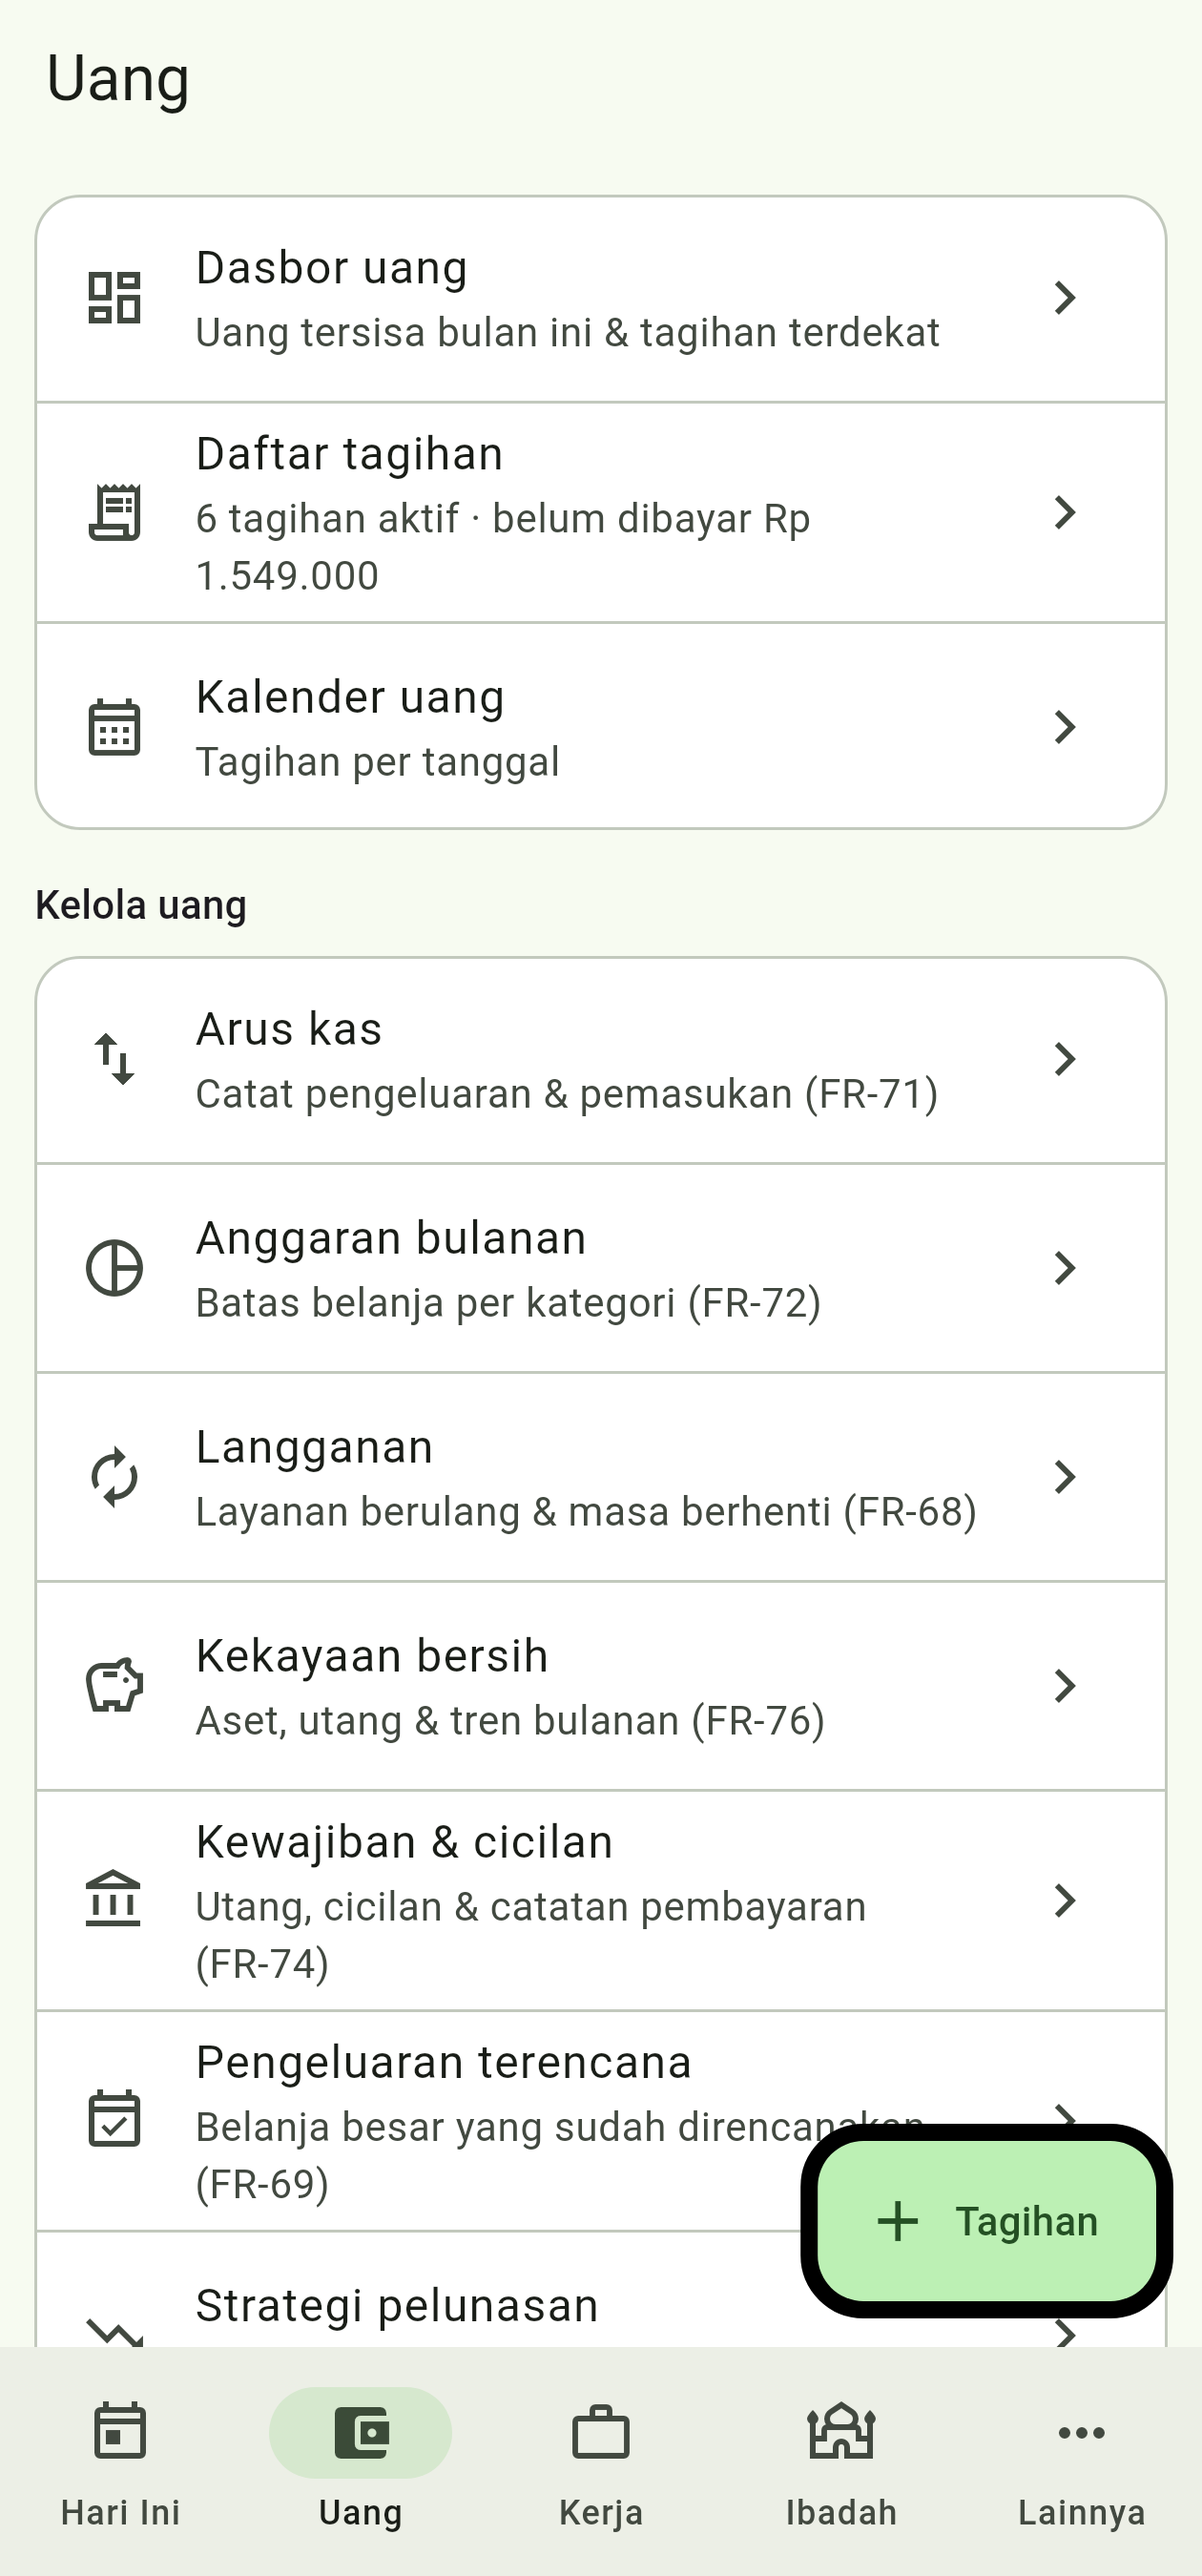
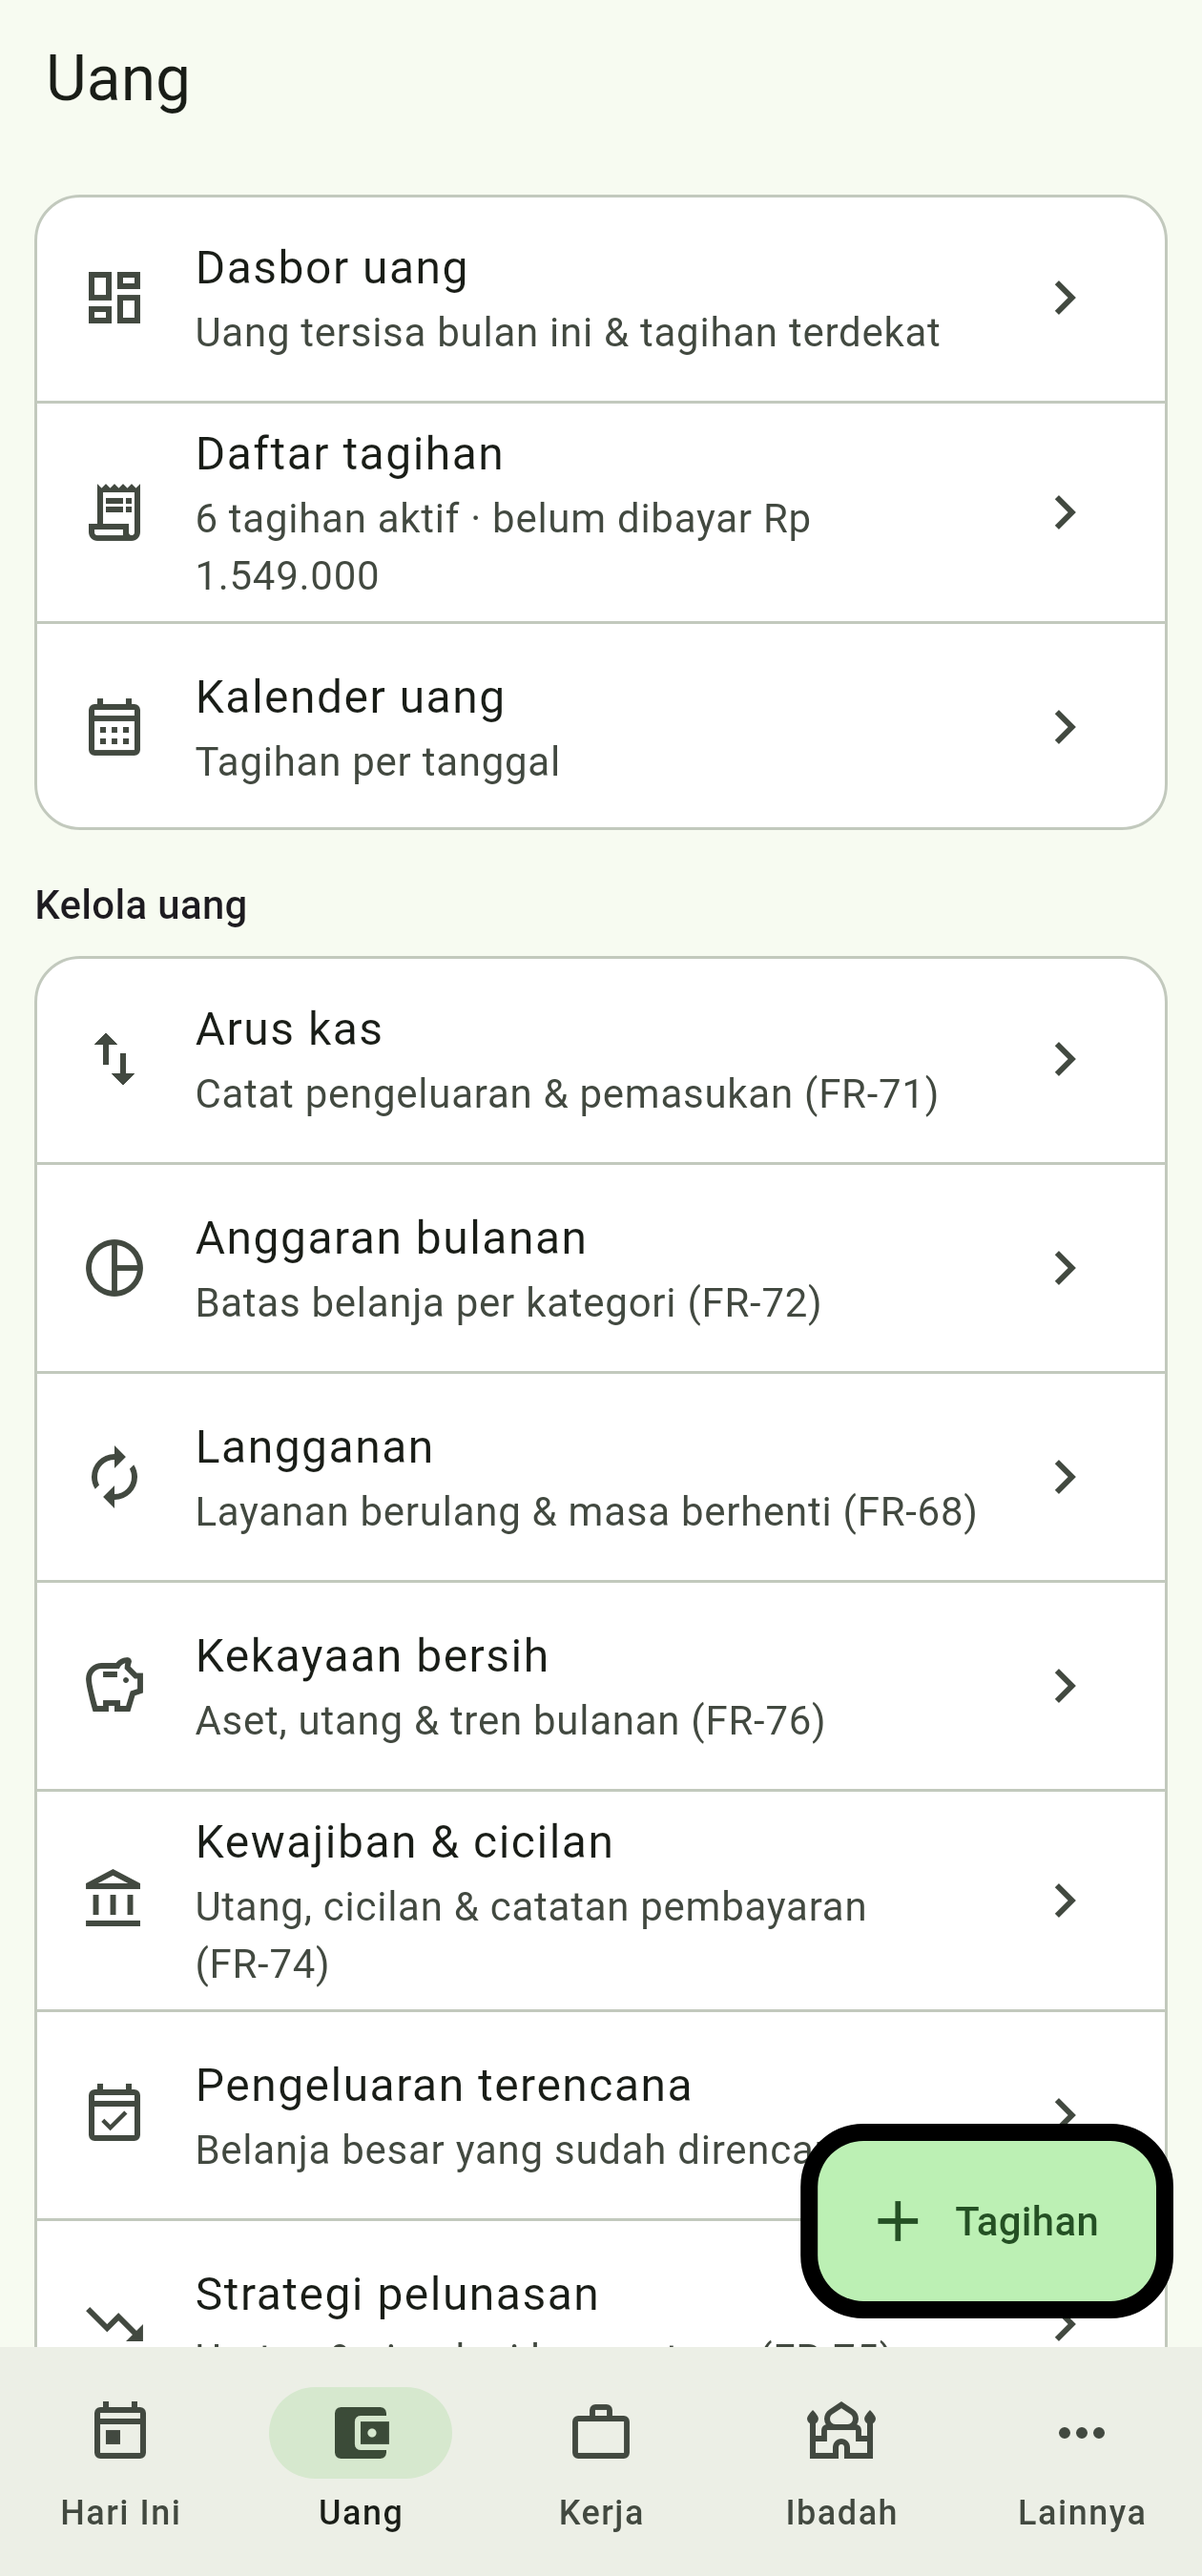
Perbaikan kejujuran label FR pada modul uang lanjutan
Balapan nomor: anak pekerja menandai modul "catat pembayaran utang" sebagai
FR-69 dan "pengeluaran terencana" sebagai FR-70. Menurut PRD v3.1, FR-69 =
Subscription Intelligence dan FR-70 = deteksi langganan duplikat/jarang
dipakai/harga naik. Karena itu komentar dan nama grup uji diperbaiki:

- catat pembayaran kewajiban/utang -> FR-74 (Debt Manager), FR-75 tetap.
- pengeluaran terencana -> ditulis apa adanya sebagai fitur tambahan di luar
  nomor FR PRD (bukan FR-70).
- Subtitle kartu hub Uang tidak lagi menyebut FR-69.

Golden f5_uang.png diregenerasi karena subtitle berubah; sudah diuji ulang
tanpa --update-goldens dan deterministik (26/26). Analyze lib+test bersih.

Changed region(s): [[0.1548, 0.7778, 0.681, 0.9022], [0.0619, 0.8089, 0.1238, 0.84], [0.0929, 0.9022, 0.1238, 0.9333]]

diff --git a/test/v2_uang_lanjutan_test.dart b/test/v2_uang_lanjutan_test.dart
@@ -1,4 +1,4 @@
-/// Uji V2 uang lanjutan: FR-69 (catat pembayaran utang), FR-70 (pengeluaran
+/// Uji V2 uang lanjutan: FR-74 (catat pembayaran utang), pengeluaran
 /// terencana), FR-74 (prioritas & jadwal pembayaran), FR-75 (strategi
 /// pelunasan).
 ///
@@ -113,9 +113,9 @@ void main() {
   tearDown(() async => db.close());
 
   // =========================================================================
-  // FR-69 — catat pembayaran utang
+  // FR-74 — catat pembayaran utang
   // =========================================================================
-  group('FR-69 catat pembayaran utang', () {
+  group('FR-74 catat pembayaran utang', () {
     test('sisa utang = pokok acuan - bagian pokok yang dibayar; bunga tidak '
         'mengurangi sisa', () async {
       final k = await kewajiban('Kartu kredit',
@@ -584,9 +584,9 @@ void main() {
   });
 
   // =========================================================================
-  // FR-70 — pengeluaran terencana
+  // pengeluaran terencana (tambahan)
   // =========================================================================
-  group('FR-70 pengeluaran terencana', () {
+  group('pengeluaran terencana (tambahan)', () {
     test('tambah: tanggal dinormalkan ke 00:00 dan daftar urut tanggal', () async {
       final c = await rencana('Liburan',
           jumlahSen: rupiahKeSen(2000000), tanggal: DateTime(2026, 10, 1, 7, 30));
@@ -711,7 +711,7 @@ void main() {
   // =========================================================================
   // Layar
   // =========================================================================
-  group('layar kewajiban (FR-69 + FR-74)', () {
+  group('layar kewajiban (FR-74)', () {
     /// Menampilkan layar daftar kewajiban dengan jam uji 15 Sep 2026.
     Future<void> tampilkan(WidgetTester t) async {
       await t.binding.setSurfaceSize(const Size(420, 900));
@@ -930,7 +930,7 @@ void main() {
     });
   });
 
-  group('layar pengeluaran terencana (FR-70)', () {
+  group('layar pengeluaran terencana (tambahan)', () {
     Future<void> tampilkan(WidgetTester t) async {
       await t.binding.setSurfaceSize(const Size(420, 900));
       await t.pumpWidget(ProviderScope(

diff --git a/lib/features/uang/uang_hub_screen.dart b/lib/features/uang/uang_hub_screen.dart
@@ -125,7 +125,7 @@ class _UangHubScreenState extends ConsumerState<UangHubScreen> {
                   key: const Key('buka_pengeluaran_terencana'),
                   leading: const Icon(Icons.event_available_outlined),
                   title: const Text('Pengeluaran terencana'),
-                  subtitle: const Text('Belanja besar yang sudah direncanakan (FR-69)'),
+                  subtitle: const Text('Belanja besar yang sudah direncanakan'),
                   trailing: const Icon(Icons.chevron_right),
                   onTap: () => context.push('/uang/pengeluaran-terencana'),
                 ),

diff --git a/lib/features/uang/kewajiban/provider_uang_lanjutan.dart b/lib/features/uang/kewajiban/provider_uang_lanjutan.dart
@@ -1,5 +1,5 @@
-/// Provider modul uang lanjutan (FR-69 catat pembayaran, FR-70 pengeluaran
-/// terencana, FR-74 jadwal pembayaran, FR-75 strategi pelunasan).
+/// Provider modul uang lanjutan (FR-74 catat pembayaran & jadwal, FR-75
+/// strategi pelunasan, plus pengeluaran terencana sebagai fitur tambahan).
 ///
 /// Sengaja ditaruh di folder fitur ini - bukan di `lib/core/providers/` -
 /// supaya berkas bersama tidak perlu disentuh saat modul ini bertambah.

diff --git a/lib/app_router.dart b/lib/app_router.dart
@@ -116,7 +116,7 @@ GoRouter buatRouter({String awal = '/'}) => GoRouter(
       path: '/notifikasi',
       builder: (c, s) => const PusatNotifikasiScreen(),
     ),
-    // Batch 2 V2: dokumen (FR-128/129) dan uang lanjutan (FR-69/70/74/75).
+    // Batch 2 V2: dokumen (FR-128/129) dan uang lanjutan (FR-74/75).
     GoRoute(
       path: '/dokumen',
       builder: (c, s) => const DokumenScreen(),

diff --git a/lib/features/uang/pengeluaran_terencana/form_pengeluaran_terencana_screen.dart b/lib/features/uang/pengeluaran_terencana/form_pengeluaran_terencana_screen.dart
@@ -1,4 +1,4 @@
-/// Form tambah/ubah pengeluaran terencana (FR-70).
+/// Form tambah/ubah pengeluaran terencana — fitur tambahan di luar nomor FR PRD.
 ///
 /// Uang yang harus tersedia sebelum tanggal tertentu, tetapi belum menjadi
 /// transaksi. Kolom "aktif" mematikan baris dari hitungan tanpa menghapusnya.

diff --git a/lib/data/repository/pengeluaran_terencana_repository.dart b/lib/data/repository/pengeluaran_terencana_repository.dart
@@ -1,4 +1,4 @@
-/// Repositori pengeluaran terencana — FR-70.
+/// Repositori pengeluaran terencana — fitur tambahan di luar nomor FR PRD.
 ///
 /// "Pengeluaran terencana" = uang yang HARUS tersedia sebelum tanggal tertentu,
 /// tetapi belum menjadi transaksi. Berkas ini sengaja tidak menyentuh tabel

diff --git a/lib/data/repository/pembayaran_kewajiban_repository.dart b/lib/data/repository/pembayaran_kewajiban_repository.dart
@@ -1,4 +1,4 @@
-/// Repositori pembayaran kewajiban/utang — FR-69 (catat pembayaran utang)
+/// Repositori pembayaran kewajiban/utang — FR-74 (catat pembayaran utang)
 /// dan FR-74 (prioritas & jadwal pembayaran).
 ///
 /// Aturan hitung yang dipegang berkas ini (semuanya diuji di

diff --git a/lib/features/uang/pengeluaran_terencana/pengeluaran_terencana_screen.dart b/lib/features/uang/pengeluaran_terencana/pengeluaran_terencana_screen.dart
@@ -1,4 +1,4 @@
-/// Layar "Pengeluaran terencana" (FR-70).
+/// Layar "Pengeluaran terencana" — fitur tambahan di luar nomor FR PRD.
 ///
 /// Pengeluaran terencana = uang yang HARUS tersedia sebelum tanggal tertentu,
 /// tetapi belum menjadi transaksi. Layar ini:

diff --git a/lib/features/uang/kewajiban/form_pembayaran_kewajiban_screen.dart b/lib/features/uang/kewajiban/form_pembayaran_kewajiban_screen.dart
@@ -1,4 +1,4 @@
-/// Form catat pembayaran kewajiban (FR-69).
+/// Form catat pembayaran kewajiban (FR-74).
 ///
 /// Dua angka dipisah dengan sengaja:
 /// * **jumlah pembayaran** = uang yang benar-benar keluar;

diff --git a/lib/features/uang/kewajiban/detail_kewajiban_screen.dart b/lib/features/uang/kewajiban/detail_kewajiban_screen.dart
@@ -1,4 +1,4 @@
-/// Detail satu kewajiban (FR-69 + FR-74).
+/// Detail satu kewajiban (FR-74).
 ///
 /// Isi layar:
 /// * sisa utang, bagian pokok & bunga yang sudah dibayar, jadwal jatuh tempo;

diff --git a/lib/features/uang/kewajiban/kewajiban_screen.dart b/lib/features/uang/kewajiban/kewajiban_screen.dart
@@ -1,4 +1,4 @@
-/// Layar "Hutang & kewajiban" (FR-69 + FR-74).
+/// Layar "Hutang & kewajiban" (FR-74).
 ///
 /// Isi layar:
 /// * total sisa utang seluruh kewajiban aktif;
